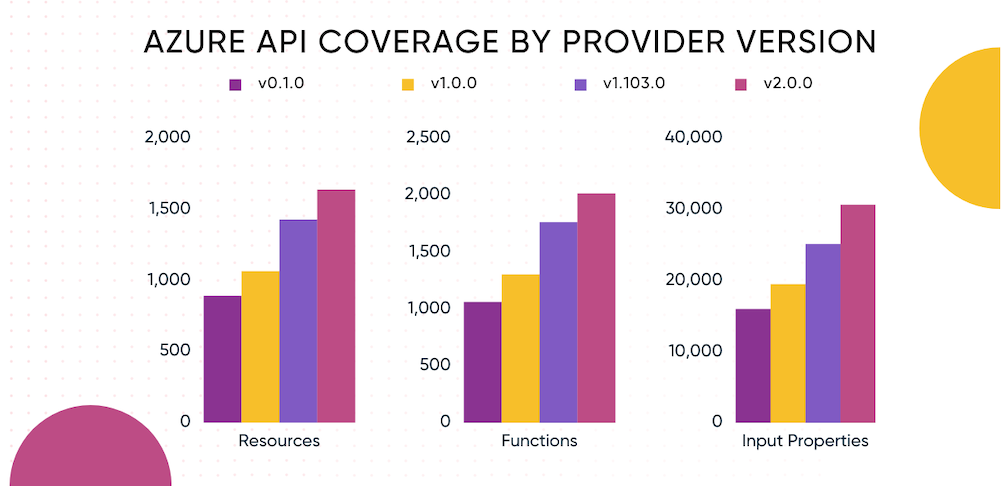
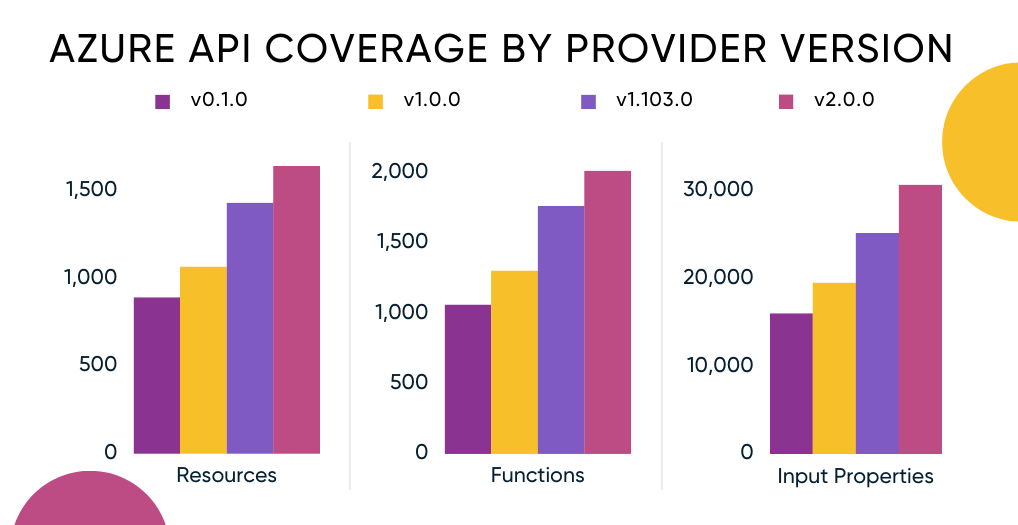
Update diagrams, add more Azure background

diff --git a/themes/default/content/blog/introducing-azure-native-v2/index.md b/themes/default/content/blog/introducing-azure-native-v2/index.md
@@ -20,11 +20,11 @@ tags:
 The Pulumi Azure Native Provider 2.0 is currently available in beta.
 {{% /notes %}}
 
-We are thrilled to announce the highly anticipated beta release of the Pulumi Azure Native Provider 2.0, a significant upgrade to our infrastructure as code (IaC) solution for Microsoft Azure. This release brings a host of exciting features and improvements that will enhance your experience with managing Azure resources and empower you to build robust and scalable cloud infrastructure more efficiently.
+We are thrilled to announce the highly anticipated beta release of the Pulumi Azure Native Provider 2.0, a significant upgrade to our infrastructure as code (IaC) solution for Microsoft Azure. The native Azure provider implements the best possible support for the Azure platform in Pulumi. Every property of each module is always represented in the SDKs. This release brings a host of exciting features and improvements that will enhance your experience with managing Azure resources and empower you to build robust and scalable cloud infrastructure more efficiently.
 
 <!--more-->
 
-At Pulumi, we understand the importance of keeping up with the ever-evolving cloud landscape. The Pulumi Azure Native Provider 2.0 represents our commitment to providing you with the best tools to harness the full power of Microsoft Azure while providing you with same-day access to the entire [Azure API surface](https://docs.microsoft.com/en-us/rest/api/azure/). Let's dive into some of the key enhancements in this release:
+At Pulumi, we understand the importance of keeping up with the ever-evolving cloud landscape. The Pulumi Azure Native Provider 2.0 represents our commitment to providing you with the best tools to harness the full power of Microsoft Azure. With automatic generation from Azure API specs, we are able to provide you with same-day access to the entire [Azure API surface](https://docs.microsoft.com/en-us/rest/api/azure/) including all available properties. Let's dive into some of the key enhancements in this release:
 
 ## Reduced SDK Size for Faster Development
 
@@ -34,11 +34,11 @@ So, how did we accomplish this? For starters, we've removed all deprecated Azure
 
 You may be wondering about the significance between explicit and default versions. Well, when Azure releases new features they often create a new version of a service. These versions are named using dates such as "2021-01-02" or "2022-05-08-preview". There's many versions of each module in the SDK, so we pick a version of each module for the top-level default. To learn more about module versions, visit the [Azure Native Version Guide](https://www.pulumi.com/registry/packages/azure-native/version-guide/).
 
-![version_squeeze_diagram](./azurev2-diagrams.png)
+![sdk-size-version-diagram](./azurev2-diagrams.png)
 
 ## Refreshed Default Module Versions
 
-In the latest release, we have refreshed the default module versions to align with the latest ARM API versions from Microsoft. With our continued commitment to same-day access to Azure API surface, you always have access to the most up-to-date features and capabilities offered by Azure modules. By leveraging the latest module versions, you can take advantage of the latest and most desired features directly from Azure while building your infrastructure with Pulumi.
+In the latest release, we have refreshed the default module versions to align with the latest Azure API versions from Microsoft. With our continued commitment to same-day access to Azure API surface, you always have access to the most up-to-date features and capabilities offered by Azure modules. By leveraging the latest module versions, you can take advantage of the latest and most desired features directly from Azure while building your infrastructure with Pulumi.
 
 If you would like to upgrade to 2.0, but continue using the same ARM API version that was used in your 1.0, you can do that by specifying the compatible explicit version available in the 2.0 provider. Shown below are examples of how that change might look.
 
@@ -86,11 +86,11 @@ If you would like to upgrade to 2.0, but continue using the same ARM API version
 {{% /choosable %}}
 {{< /chooser >}}
 
-## Expanded Module Per Version Coverage
+## Expanded Top-Level Default Module Coverage
 
-We're excited to expand our top-level default version coverage by 226 resources and 274 functions in this release, bringing the total to over 1600 resources and 2000 functions. With this extensive collection of modules at your disposal, you can easily provision and manage the full range of Azure services using Pulumi. Whether you're working with virtual machines, databases, networking, or any other Azure service, the Azure Native Provider has you covered.
+We're excited to expand our top-level default version coverage by 226 resources, 274 functions, and 5526 input properties in this release, bringing the total to over 1600, 2000, and 30,000 respectively. With this extensive collection of modules at your disposal, you can easily provision and manage the full range of Azure services using Pulumi. Whether you're working with virtual machines, databases, networking, or any other Azure service, the Azure Native Provider has you covered.
 
-![version_squeeze_diagram](./azurev2-provider-coverage.png)
+![provider-coverage-by-version](./azurev2-provider-coverage.png)
 
 ## Resolved Title Case Inconsistency
 
@@ -100,13 +100,13 @@ In our commitment to excellence, we have [resolved title case inconsistencies](h
 
 We have simplified the representation of user assigned identity inputs by recognizing them as string arrays. This change provides a more intuitive and clear approach when configuring user assigned identities for your Azure modules. You can now reference these as `#TODO example reference` without jumping through any hoops.
 
-## Migrating from 1.0 to 2.0
+## Migrating from 1.x to 2.x
 
-We recommend you update to the [latest version of Azure Native 1.0](https://github.com/pulumi/pulumi-azure-native/releases/tag/v1.103.0) prior to moving to 2.0. This will enable you to address existing deprecations and see the recommended substitutions ahead of the major version upgrade. Head over to the [migration guide](link TODO) which outlines the necessary steps to update your existing Pulumi projects and ensuring a smooth migration experience.
+We recommend you update to the [latest version of Azure Native 1.x](https://github.com/pulumi/pulumi-azure-native/releases/tag/v1.103.0) prior to moving to 2.x. This will enable you to address existing deprecations and see the recommended substitutions ahead of the major version upgrade. Head over to the [migration guide](https://www.pulumi.com/registry/packages/azure-native/#migration) which outlines the necessary steps to update your existing Pulumi projects and ensuring a smooth migration experience.
 
 Current users of the Pulumi Azure Classic Provider can follow the [classic to native migration guide](https://www.pulumi.com/registry/packages/azure-native/from-classic/) to take advantage of all the latest and greatest features available in Pulumi the Azure Native Provider.
 
-While you can immediately start leveraging the improved performance, you may need to make some changes in order to continue using specific Azure API module versions or user assigned identity inputs. Use the Pulumi Azure Native Provider documentation within your IDE to determine the explicit version that is available and fully compatible.
+While you can immediately start leveraging the improved performance, you may need to make some changes in order to continue using specific Azure API module versions or user assigned identity inputs. Use the Pulumi Azure Native Provider documentation within your IDE to determine the explicit API version that is available and fully compatible with your existing deployment.
 
 <!-- TODO MAYBE Add code snippet of a before and after short program from default to calling an explicit verison and updating userassigned identities -->
 
